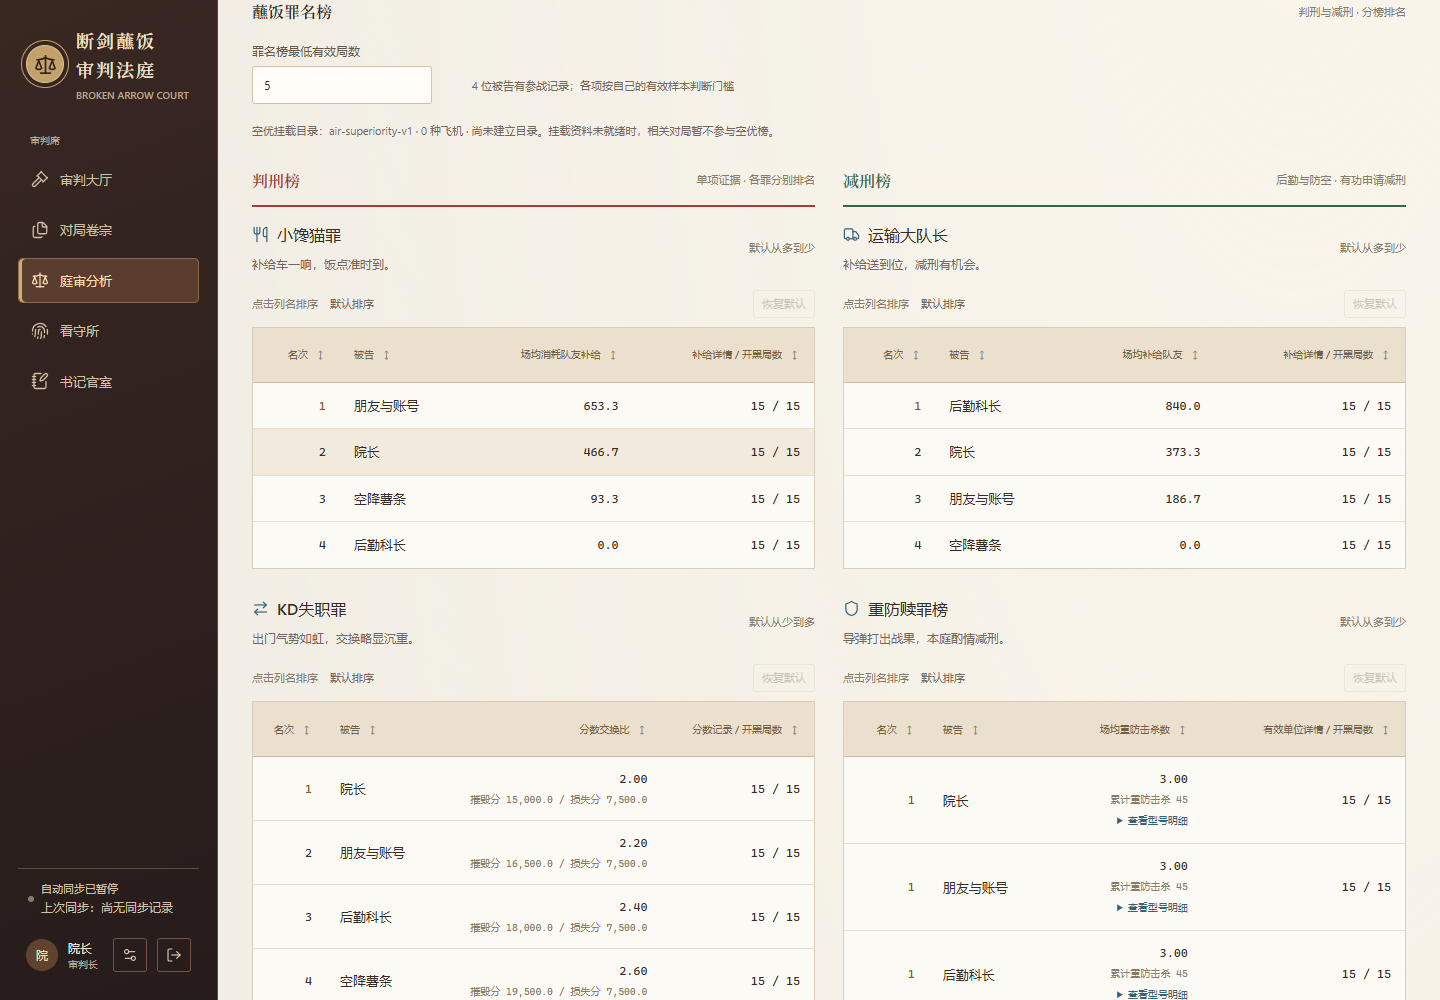
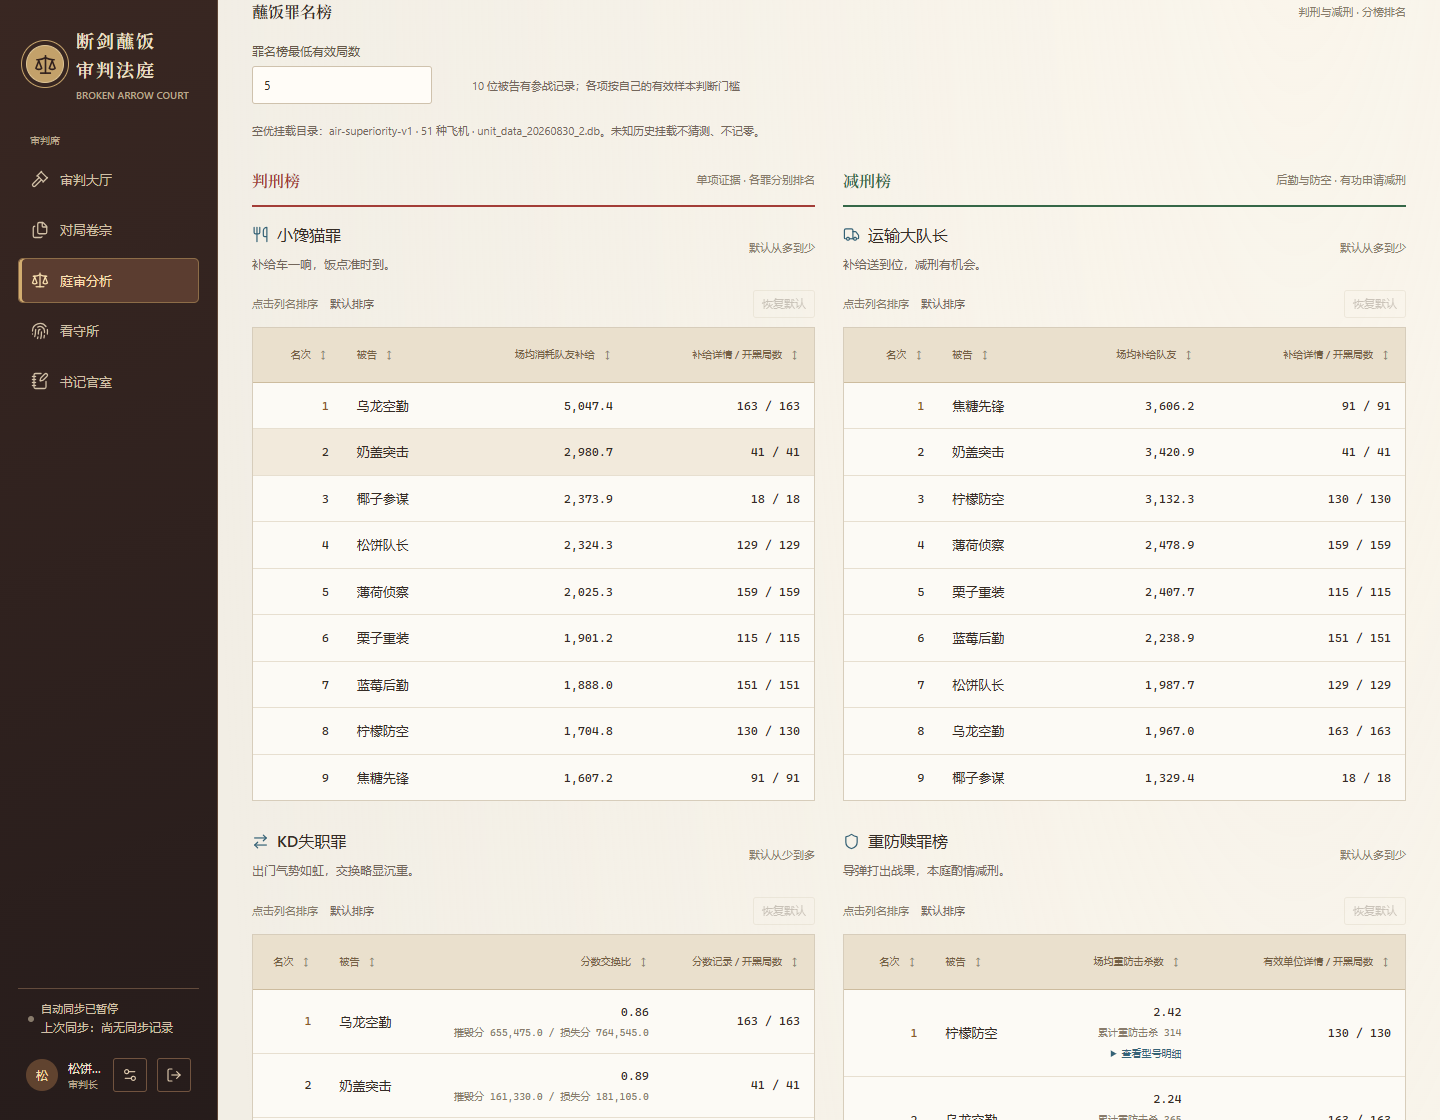
Refresh README screenshots with richer anonymized match archives

diff --git a/README.md b/README.md
@@ -18,7 +18,7 @@
 
 ![开庭模式下的审判大厅：开黑概览、地图分布与对局卷宗](docs/images/court-overview.png)
 
-<p align="center"><sub>真实程序界面 · 截图使用虚构测试账号与样例对局 · 开庭模式可随时切换</sub></p>
+<p align="center"><sub>真实程序界面 · 基于本地档案制作的演示数据 · 玩家名称、账号 ID 与对局编号均已替换</sub></p>
 
 ## 给你们的开黑，留一份长期档案
 
@@ -52,6 +52,12 @@
 总览看队伍，个人页看长期表现，单场详情看具体证据。战斗、经济、补给各有视角；摧毁分与损失分、单位击杀与损耗分别呈现。缺失详情会标出样本范围，避免把“没记录”当成“没贡献”。
 
 ![单场卷宗中的玩家战绩、经济与补给明细](docs/images/match-detail.png)
+
+### 从一场表现，看到长期画像
+
+个人页将一位朋友的多个账号合并，汇总长期胜率、评分变化、战斗表现与补给习惯。榜单里的每个化名背后，都有足够多的对局样本可供查看；切换日期范围，还能比较不同阶段的表现。
+
+![使用化名的个人画像：累计对局、胜率、评分变化与娱乐判决分项](docs/images/friend-profile.png)
 
 ### 开庭之后，连界面都有了仪式感
 
